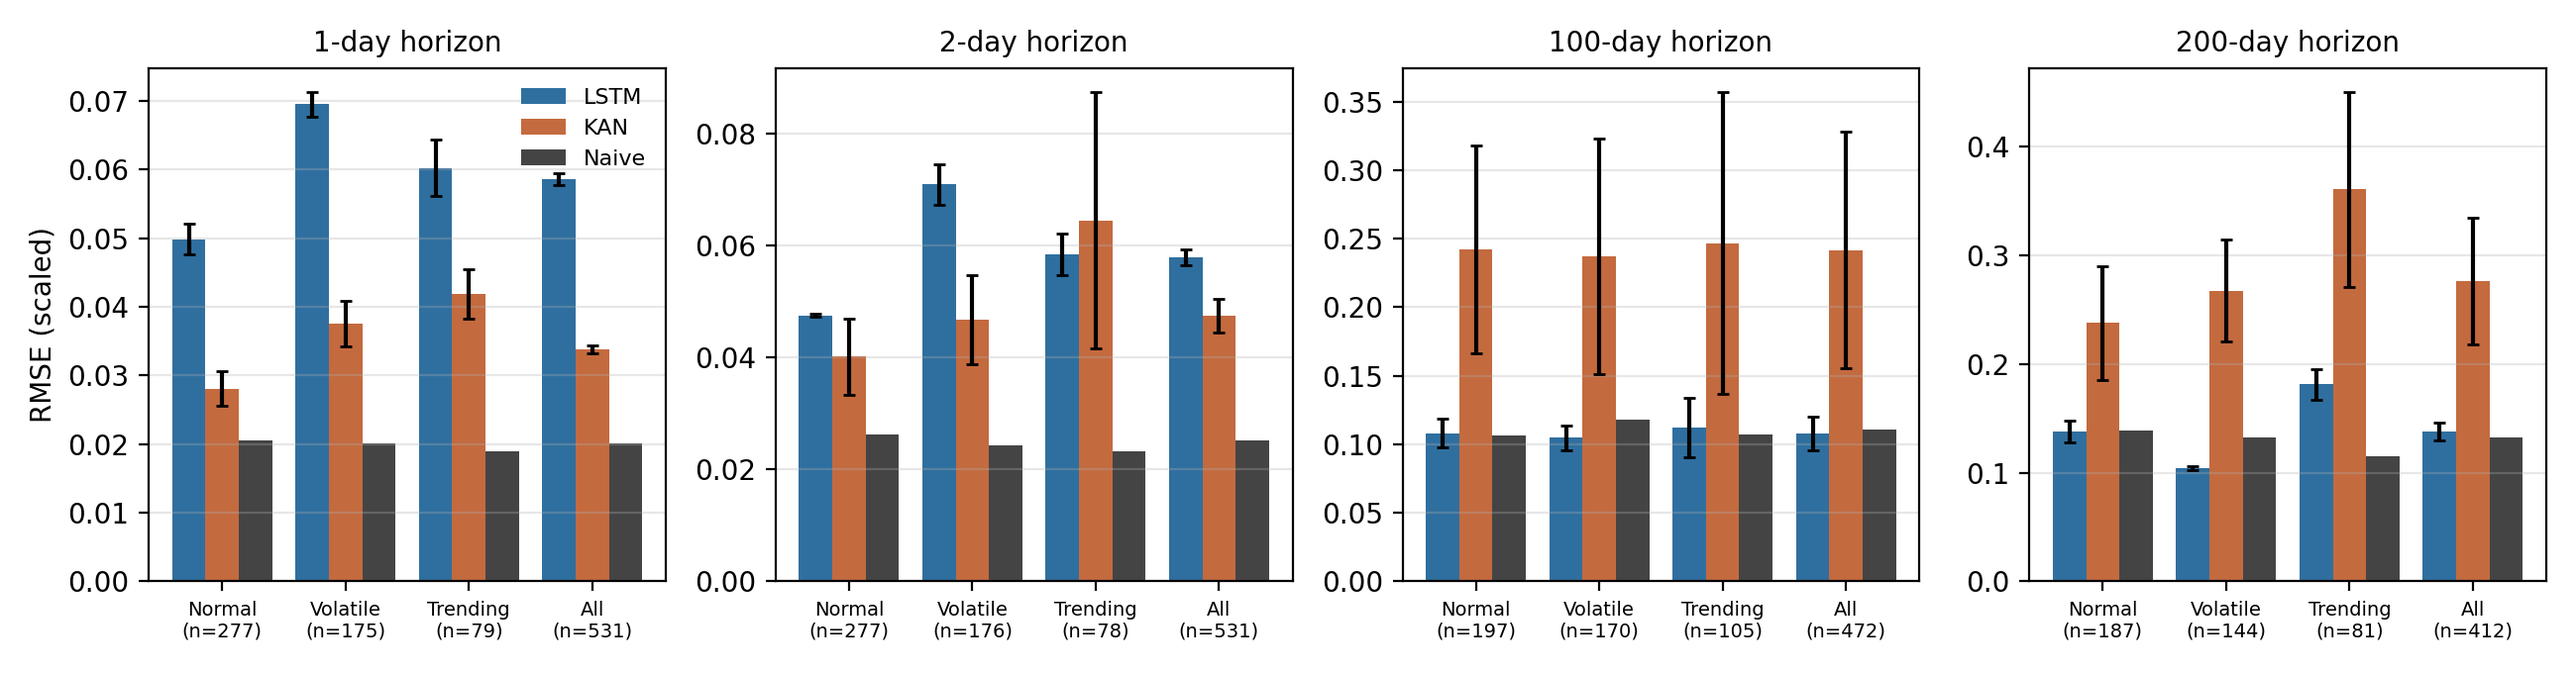
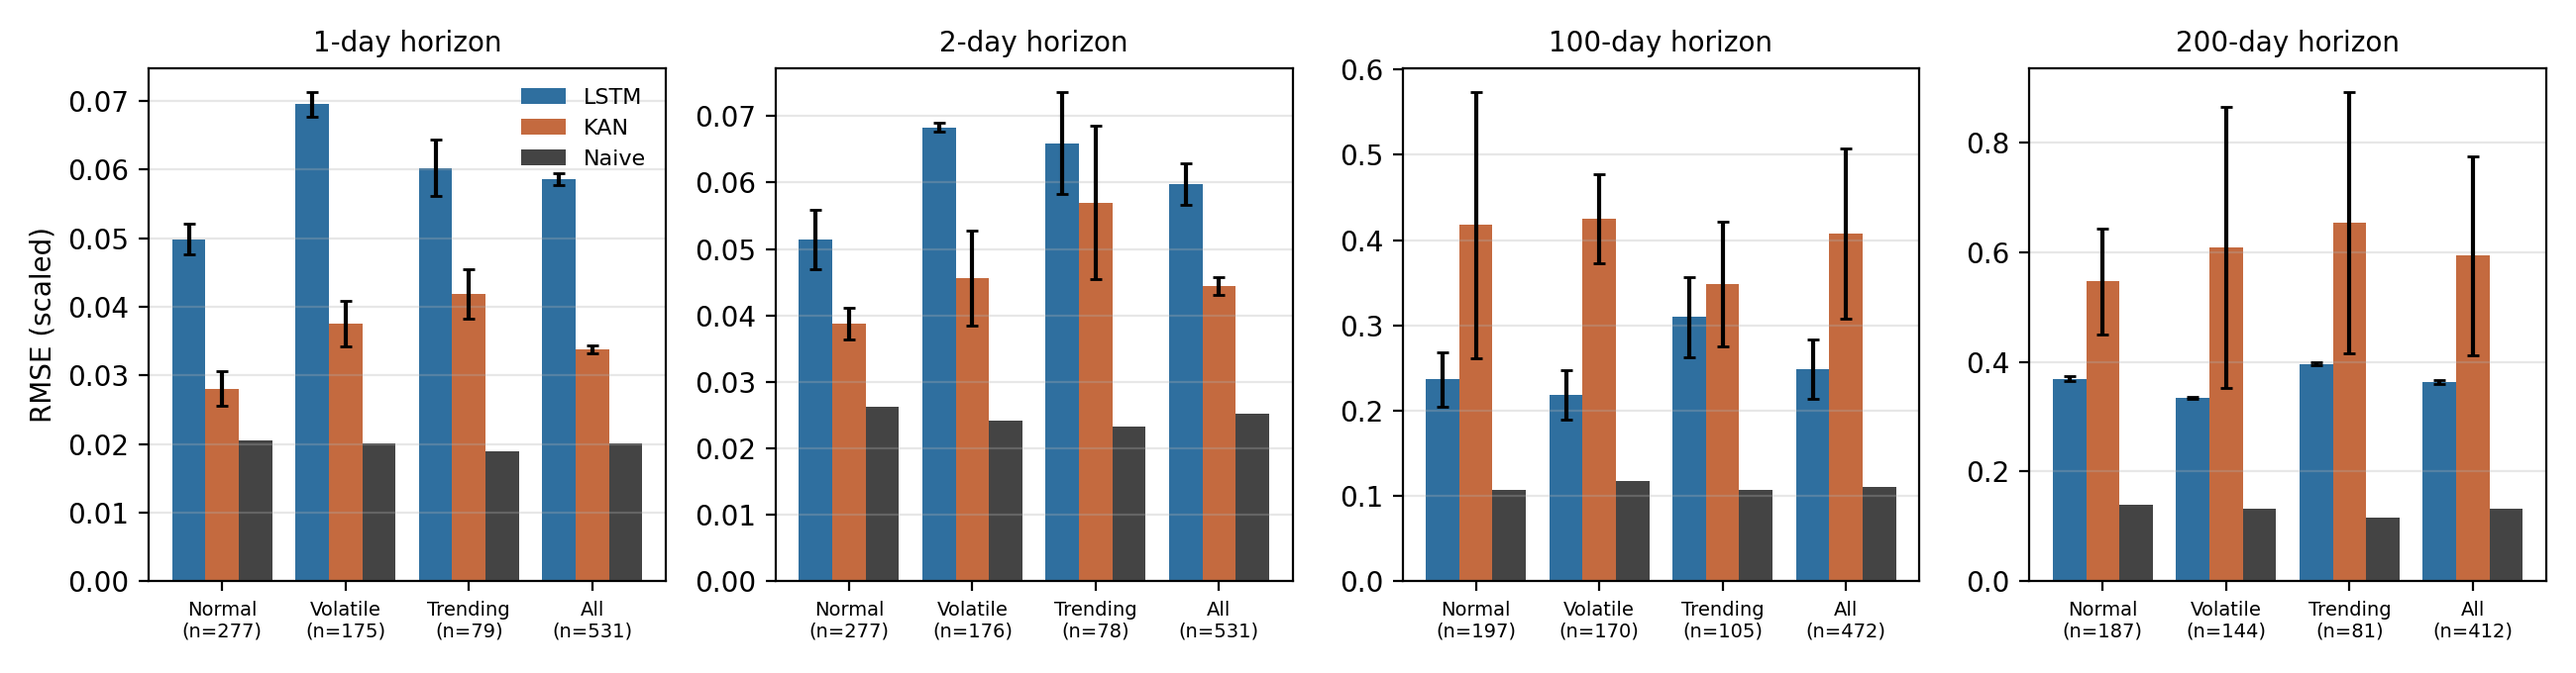
Forecasting: paper tables (10, 12, 13) now built from the purged protocol
- make_tables.py: paper_protocol(); 1-day rows unchanged (purging removes nothing at H = 1)
- regenerated tables, workbook and market-regime figure
- README: purging described as the protocol of the paper; long-horizon notes updated

diff --git a/forecasting/code/make_tables.py b/forecasting/code/make_tables.py
@@ -12,6 +12,14 @@ folds are pooled and one RMSE is computed over all of them. The tables report
 the mean and the sample standard deviation of that RMSE over the three seeds
 (0, 100, 200). The Naive forecast has no randomness, hence no deviation.
 
+Protocol of the paper's tables
+------------------------------
+The paper reports PURGED results (see forecast_lib.make_fold): Tables 10, 12
+and 13 are built from the purged runs for every horizon above one day. At
+the 1-day horizon purging removes nothing, so the standard 1-day runs are
+used there; they also contain the two configuration screenings (Tables 9
+and 11). standard_vs_purged.csv shows both protocols for all three assets.
+
 Output (forecasting/results/tables/)
 ------------------------------------
     table09_lstm_configurations.csv      screening of nine LSTM architectures
@@ -19,7 +27,7 @@ Output (forecasting/results/tables/)
     table11_kan_configurations.csv       screening of six KAN configurations
     table12_regimes_by_horizon.csv       LSTM / KAN / Naive per market regime
     table13_training_time.csv            seconds to train one model on one fold
-    kan_long_horizon_stability.csv       KAN at 100/200 days without fold 0
+    kan_long_horizon_stability.csv       KAN at 100/200 days, with and without fold 0
     standard_vs_purged.csv               all three assets, both protocols
     all_runs.csv                         one row per (protocol, asset, model,
                                          configuration, horizon, seed)
@@ -42,6 +50,17 @@ import forecast_lib as fl
 from run_forecasts import BEST_LSTM, HORIZONS, KAN_GRID, LSTM_GRID, SEEDS
 
 PAPER_HORIZONS = [1, 2, 100, 200]          # the horizons shown in the paper
+
+
+def paper_protocol(horizon):
+    """Protocol behind the tables of the paper.
+
+    The paper reports purged results. Purging removes the last H-1 training
+    windows of a fold, so at H = 1 it removes nothing: the training sets are
+    identical and the 'standard' 1-day runs (which also hold the two
+    configuration screenings) are used. For H > 1 the purged runs are used.
+    """
+    return "standard" if horizon == 1 else "purged"
 REGIME_ROWS = fl.REGIMES + ["All"]
 
 
@@ -132,7 +151,7 @@ def table_lstm_configurations():
 def table_lstm_by_horizon():
     rows = []
     for horizon in HORIZONS:
-        s = seed_statistics("standard", "CBA.AX", "lstm", "lstmcfg__" + BEST_LSTM, horizon)
+        s = seed_statistics(paper_protocol(horizon), "CBA.AX", "lstm", "lstmcfg__" + BEST_LSTM, horizon)
         rows.append({"horizon_days": horizon, "configuration": BEST_LSTM, "seeds": len(SEEDS),
                      "test_rmse_mean": s["test_mean"], "test_rmse_sd": s["test_sd"],
                      "best_seed_test_rmse": s["test_best"],
@@ -169,9 +188,10 @@ def regime_statistics(protocol, ticker, folder, stem, horizon, seeds):
     return {regime: mean_sd(v) + (windows[regime],) for regime, v in per_regime.items()}
 
 
-def table_regimes(protocol="standard", ticker="CBA.AX"):
+def table_regimes(ticker="CBA.AX"):
     rows = []
     for horizon in HORIZONS:
+        protocol = paper_protocol(horizon)
         lstm = regime_statistics(protocol, ticker, "lstm", "lstmcfg__" + BEST_LSTM, horizon, SEEDS)
         kan = regime_statistics(protocol, ticker, "kan", "kan__-", horizon, SEEDS)
         naive = regime_statistics(protocol, ticker, "naive", "naive__-", horizon, [0])
@@ -195,7 +215,7 @@ def table_training_time():
         for model, folder, stem in (("lstm", "lstm", "lstmcfg__" + BEST_LSTM), ("kan", "kan", "kan__-")):
             values = []
             for seed in SEEDS:
-                values += [m["train_seconds"] for m in load_pooled("standard", "CBA.AX", folder, stem, horizon, seed)[3]]
+                values += [m["train_seconds"] for m in load_pooled(paper_protocol(horizon), "CBA.AX", folder, stem, horizon, seed)[3]]
             seconds[model] = np.array(values)
         rows.append({"horizon_days": horizon,
                      "lstm_seconds_mean": seconds["lstm"].mean(), "lstm_seconds_min": seconds["lstm"].min(),
@@ -208,19 +228,23 @@ def table_training_time():
 
 
 def table_kan_stability():
-    """At 100 and 200 days the 10-step L-BFGS fit diverges on fold 0 (the
-    smallest training set). This table shows the range of the fold-0
-    predictions and the KAN RMSE when that fold is left out."""
+    """KAN at the long horizons, fold by fold (purged protocol).
+
+    The 10-step L-BFGS fit is unstable on small training sets. For each
+    horizon the table gives the pooled RMSE, the RMSE without fold 0 (the
+    smallest training set), the number of training windows in fold 0 and the
+    range of the fold-0 predictions (the data lie in [0, 1])."""
     rows = []
     for horizon in (100, 200):
+        protocol = paper_protocol(horizon)
         without_fold0, low, high = [], [], []
         for seed in SEEDS:
-            prediction, truth, _, _ = load_pooled("standard", "CBA.AX", "kan", "kan__-", horizon, seed, folds=range(1, 5))
+            prediction, truth, _, _ = load_pooled(protocol, "CBA.AX", "kan", "kan__-", horizon, seed, folds=range(1, 5))
             without_fold0.append(fl.rmse(prediction, truth))
-            fold0 = load_pooled("standard", "CBA.AX", "kan", "kan__-", horizon, seed, folds=[0])[0]
+            fold0, _, _, meta0 = load_pooled(protocol, "CBA.AX", "kan", "kan__-", horizon, seed, folds=[0])
             low.append(fold0.min()); high.append(fold0.max())
-        all_folds = seed_statistics("standard", "CBA.AX", "kan", "kan__-", horizon)
-        rows.append({"horizon_days": horizon,
+        all_folds = seed_statistics(protocol, "CBA.AX", "kan", "kan__-", horizon)
+        rows.append({"horizon_days": horizon, "fold0_training_windows": meta0[0]["n_train"],
                      "kan_rmse_all_folds_mean": all_folds["test_mean"], "kan_rmse_all_folds_sd": all_folds["test_sd"],
                      "kan_rmse_without_fold0_mean": mean_sd(without_fold0)[0],
                      "kan_rmse_without_fold0_sd": mean_sd(without_fold0)[1],
@@ -303,7 +327,7 @@ def main():
             table.to_excel(workbook, sheet_name=name[:31], index=False)
             print("wrote %-32s %4d rows" % (name + ".csv", len(table)))
     tidy_workbook(os.path.join(fl.TABLES_DIR, "forecasting_tables.xlsx"))
-    print("\nTable 12, 'All' rows (standard protocol, CBA.AX):")
+    print("\nTable 12, 'All' rows (CBA.AX, protocol of the paper):")
     t = tables["table12_regimes_by_horizon"]
     print(t[t.regime == "All"].drop(columns=["regime", "in_paper"]).round(4).to_string(index=False))
 

diff --git a/forecasting/README.md b/forecasting/README.md
@@ -16,7 +16,7 @@ Sections 3 and 5.1 of the paper. Given the last 20 trading days of Open, High, L
 - **Leak-free scaling.** Min-Max scaling is fitted on the training rows of each fold only.
 - **Seeds.** LSTM and KAN are trained from seeds 0, 100 and 200. Tables give the mean and sample standard deviation of the pooled test RMSE over the three seeds.
 - **Market regimes.** Each test window is labelled Normal, Volatile or Trending from its 20 input days, using thresholds from the training data.
-- **Two protocols.** `standard` is the protocol of the paper's tables. `purged` additionally removes the last H-1 training windows of every fold, whose targets lie inside the test period. The two give the same results at 1 and 2 days and very different results at 100 and 200 days (see below).
+- **Purging.** With multi-day targets, the last H−1 training windows of a fold have targets inside that fold's test period. The `purged` protocol removes them (purged cross-validation; López de Prado, *Advances in Financial Machine Learning*, 2018, ch. 7). **The paper reports purged results.** At H = 1 nothing is removed, so the 1-day runs are the same under both protocols. The `standard` protocol (no purging) is kept for comparison.
 
 ## Code
 
@@ -59,12 +59,12 @@ One `.npz` file per model, horizon, seed and fold, named `<model>__<configuratio
 | `table11_kan_configurations.csv` | Table 11 |
 | `table12_regimes_by_horizon.csv` | Table 12 |
 | `table13_training_time.csv` | Table 13 |
-| `kan_long_horizon_stability.csv` | KAN at 100 and 200 days with and without the first fold (Section 5.1.3) |
+| `kan_long_horizon_stability.csv` | KAN at 100 and 200 days: pooled RMSE, RMSE without the first fold, range of the first-fold predictions (Section 5.1.3) |
 | `standard_vs_purged.csv` | All three assets under both protocols |
 | `all_runs.csv` | One row per stored run |
 | `forecasting_tables.xlsx` | All of the above, one sheet each |
 
-Tables 10, 12 and 13 also contain the 5- and 10-day horizons, which the paper does not show; the column `in_paper` marks the rows that it does.
+Tables 10, 12 and 13 use the purged runs for every horizon above one day and the 1-day runs of `standard/` (identical training sets, and the folder that holds the two screenings). They also contain the 5- and 10-day horizons, which the paper does not show; the column `in_paper` marks the rows that it does.
 
 ### `results/figures/`
 
@@ -77,7 +77,7 @@ Tables 10, 12 and 13 also contain the 5- and 10-day horizons, which the paper do
 
 ## Notes on the results
 
-**Long horizons and purging.** Under the standard protocol the last H-1 training windows have targets inside the test period. At H = 100 and 200 this gives the trained models information about the test period and makes them look close to the Naive forecast. With those windows removed, the test RMSE on CBA.AX is:
+**Why purging matters at long horizons.** Without purging, the last H−1 training windows give the models information about the test period, and at H = 100 and 200 the trained models look close to the Naive forecast. With those windows removed, the test RMSE on CBA.AX is:
 
 | Horizon | Naive | LSTM standard | LSTM purged | KAN standard | KAN purged |
 |---|---|---|---|---|---|
@@ -86,7 +86,9 @@ Tables 10, 12 and 13 also contain the 5- and 10-day horizons, which the paper do
 | 100 | 0.1109 | 0.1079 | 0.2490 | 0.2418 | 0.4080 |
 | 200 | 0.1323 | 0.1375 | 0.3628 | 0.2764 | 0.5935 |
 
-The 1- and 2-day results are the same under both protocols. The 100- and 200-day results should be read from the purged columns.
+The purged columns are the ones reported in the paper (the two 1-day KAN values come from two runs with identical training sets and differ only through PyKAN's run-to-run variation; the paper quotes 0.0338). Under purging the pooled long-horizon errors are dominated by the early folds, whose training sets are short (215 windows at 100 days and 75 at 200 days in the first fold). On the last two folds at 100 days the LSTM error (0.083 and 0.080) is below the Naive error (0.136 and 0.092).
+
+**KAN at long horizons.** At 100 and 200 days the 10-step L-BFGS fit produces predictions outside the [0, 1] data range on several folds (between −2.7 and 3.6).
 
 **Reproducibility.** The Naive and LSTM results reproduce exactly from the code. The KAN results do not reproduce file by file: PyKAN's fit is not deterministic from one Python process to the next, even with every seed fixed, so a re-run gives slightly different predictions per fold. The pooled RMSE values agree within the reported standard deviations.
 
